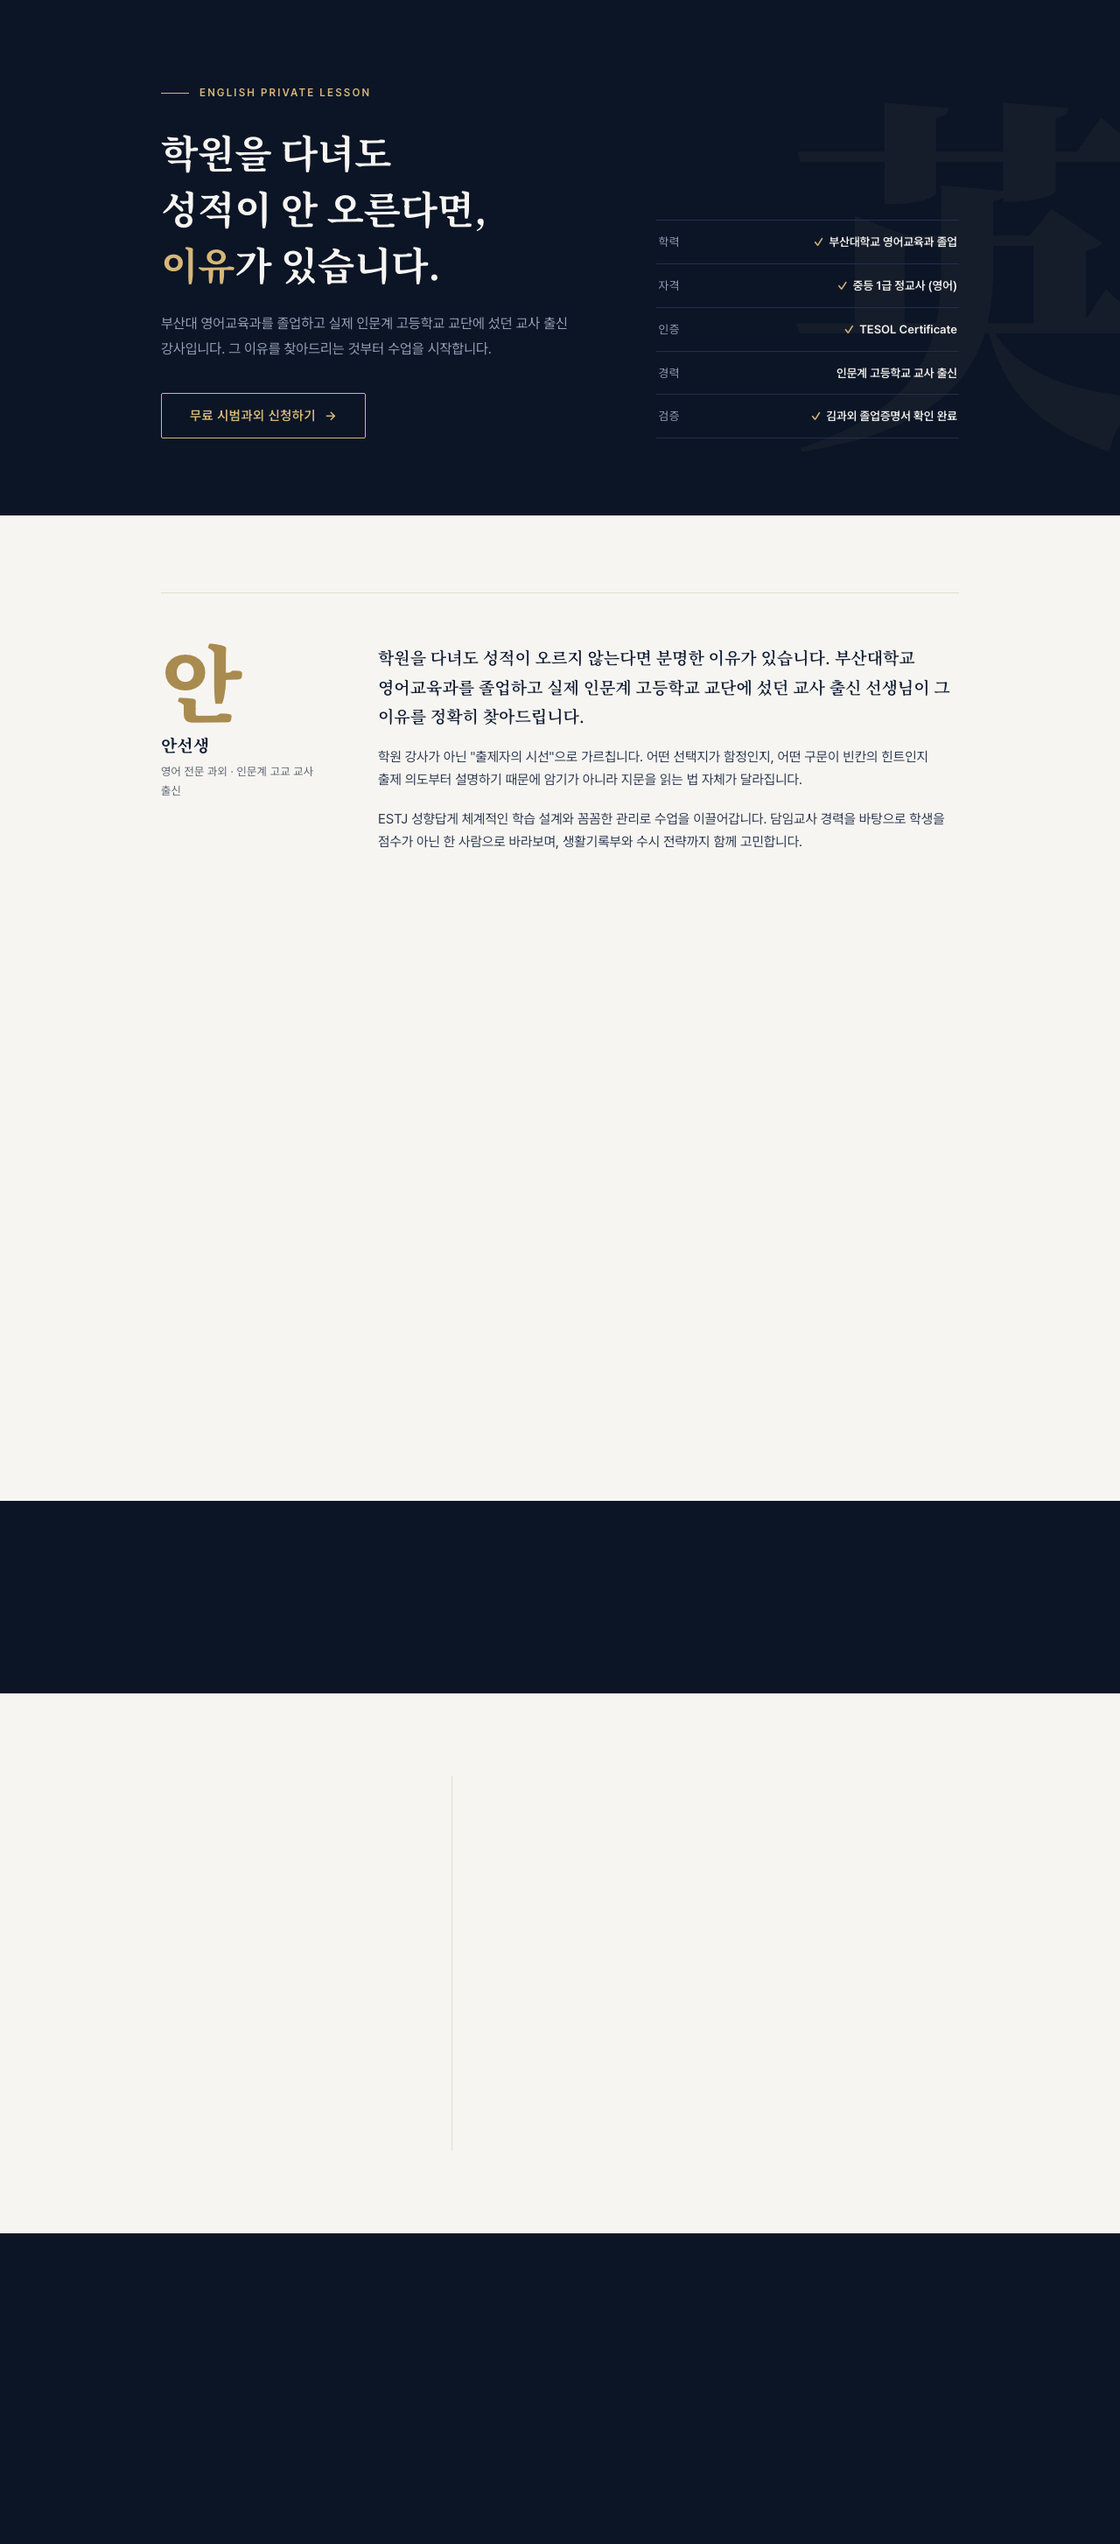
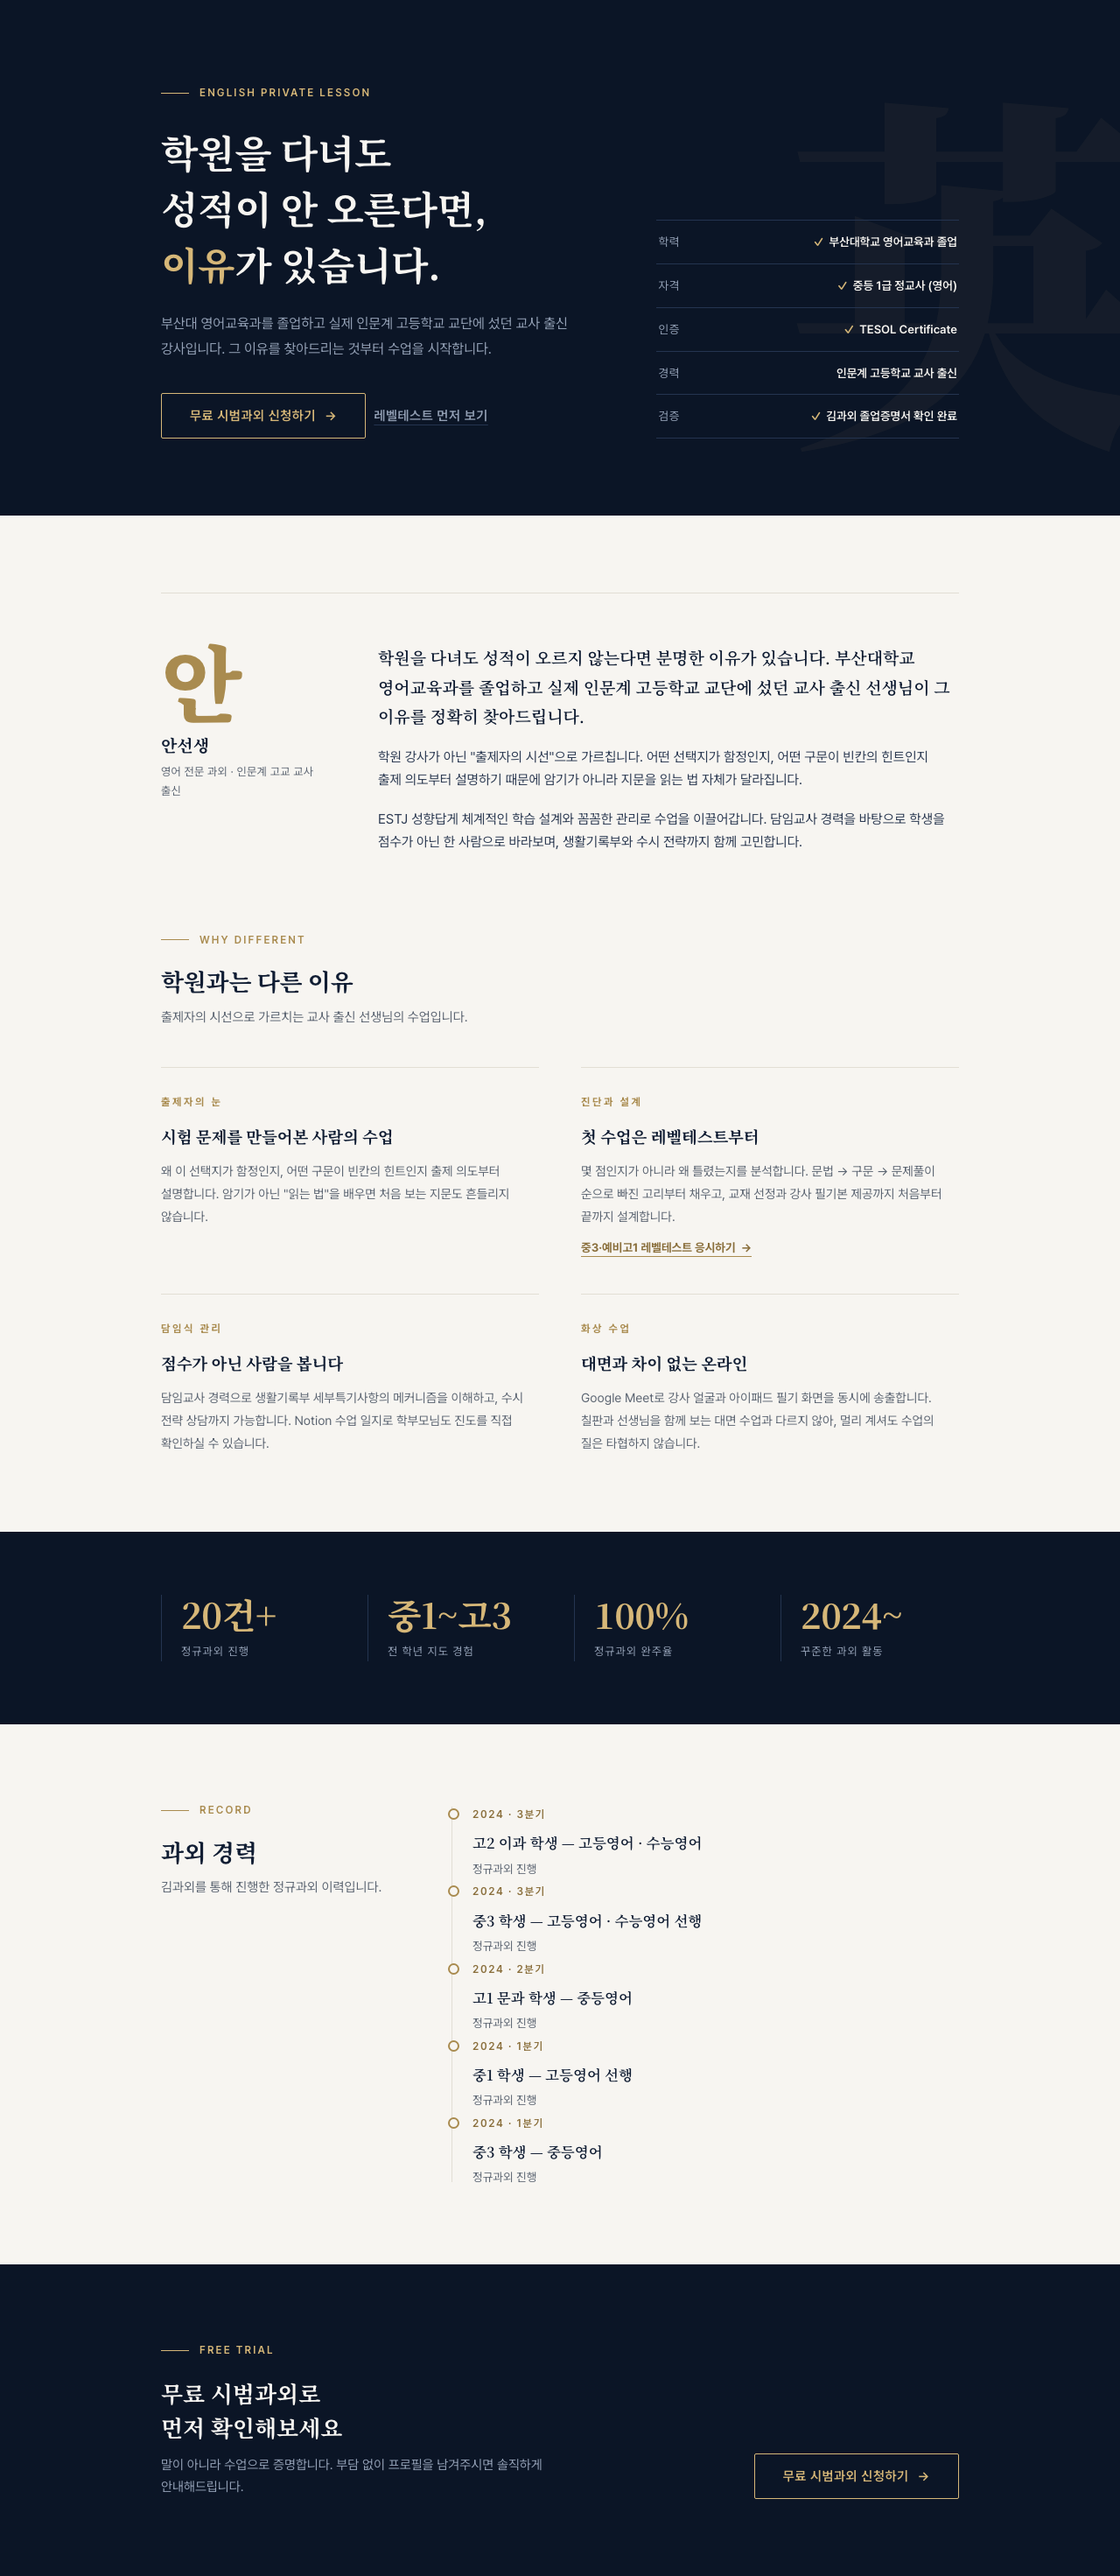
Rewrite README to cover the level test
레벨테스트가 추가되면서 README가 2단 구성(랜딩 + 프로필) 기준으로
낡아 있었다. 세 흐름을 모두 담고, 서술형 자동 채점 방식과 영역별
피드백 예시처럼 이 프로젝트의 핵심 설계를 실제로 보여주도록 재작성.

스크린샷도 레벨테스트 화면(안내 · 독해 응시 · 결과)을 추가해 다시 촬영.
스크롤 리빌이 fullPage 캡처에서 트리거되지 않아 결과 페이지의 영역별
분석이 비어 보이던 문제를 촬영 전 스크롤로 해결.

diff --git a/README.md b/README.md
@@ -2,117 +2,252 @@
 
 # 안선생 영어과외
 
-**"학원을 다녀도 성적이 안 오른다면, 이유가 있습니다."**
+### <em>"학원을 다녀도 성적이 안 오른다면, 이유가 있습니다."</em>
 
-교사 출신 영어 과외 선생님의 소개 랜딩 페이지 &middot; 학년별 분기형 학생 프로필 입력 폼
+교사 출신 영어 과외 선생님의 브랜드 랜딩 페이지 &middot; 학년별 분기형 학생 프로필 폼 &middot; 20문항 자동 채점 레벨테스트
 
-[**🔗 Live Demo**](https://maybeags.github.io/tutor-profile/) &nbsp;·&nbsp;
-[Report Bug](https://github.com/maybeags/tutor-profile/issues) &nbsp;·&nbsp;
-[Request Feature](https://github.com/maybeags/tutor-profile/issues)
+<br />
 
-![React](https://img.shields.io/badge/React-19-149ECA?logo=react&logoColor=white)
-![Vite](https://img.shields.io/badge/Vite-8-646CFF?logo=vite&logoColor=white)
-![React Router](https://img.shields.io/badge/React_Router-7-CA4245?logo=reactrouter&logoColor=white)
-![Deploy](https://img.shields.io/github/actions/workflow/status/maybeags/tutor-profile/deploy.yml?branch=main&label=deploy)
-![License](https://img.shields.io/badge/license-MIT-lightgrey)
+[**🔗 Live Demo**](https://maybeags.github.io/tutor-profile/) &nbsp;&middot;&nbsp;
+[레벨테스트 바로 응시](https://maybeags.github.io/tutor-profile/#/test) &nbsp;&middot;&nbsp;
+[Issues](https://github.com/maybeags/tutor-profile/issues)
+
+<br />
+
+![React](https://img.shields.io/badge/React-19-149ECA?style=flat-square&logo=react&logoColor=white)
+![Vite](https://img.shields.io/badge/Vite-8-646CFF?style=flat-square&logo=vite&logoColor=white)
+![React Router](https://img.shields.io/badge/React_Router-7-CA4245?style=flat-square&logo=reactrouter&logoColor=white)
+![Deploy](https://img.shields.io/github/actions/workflow/status/maybeags/tutor-profile/deploy.yml?branch=main&style=flat-square&label=deploy)
+![No Backend](https://img.shields.io/badge/backend-none-lightgrey?style=flat-square)
+![License](https://img.shields.io/badge/license-MIT-lightgrey?style=flat-square)
+
+<br />
+
+<img src="docs/screenshot-hero.png" alt="랜딩 페이지 히어로 섹션" width="100%" />
 
 </div>
 
 <br />
 
-<div align="center">
-  <img src="docs/screenshot-hero.png" alt="데스크톱 히어로 섹션" width="100%" />
-</div>
+## 프로젝트 소개
+
+과외 선생님이 신규 학생을 받는 과정 전체를 하나의 정적 사이트로 만든 프로젝트입니다. **서버도 데이터베이스도 없이** 세 가지 흐름이 돌아갑니다.
+
+```
+소개 랜딩  ─┬─▶  학생 프로필 입력  ──▶  요약 · 클립보드 복사  ──┐
+            │      (중등 / 고등 분기)                              ├──▶  구글 시트
+            └─▶  레벨테스트 20문항  ──▶  자동 채점 · 영역별 피드백 ─┘
+```
+
+디자인은 **"프리미엄 입시학원 브랜드"** 컨셉으로, 딥 네이비 + 브라스 골드 팔레트와 명조 세리프 타이포그래피를 씁니다. 그라데이션 히어로·이모지 섹션 마커·전면 센터 정렬 같은 흔한 템플릿 문법을 의도적으로 피하고, 헤어라인과 여백으로 구획하는 에디토리얼 레이아웃을 택했습니다.
 
 <br />
 
-## About
-
-과외 선생님이 신규 학생을 받을 때 쓰는 2단 구성의 웹 서비스입니다.
-
-1. **소개 페이지** — 강사의 이력과 강점을 에디토리얼 톤으로 소개하는 랜딩 페이지
-2. **프로필 입력 페이지** — 중학생 / 고등학생 분기에 따라 서로 다른 질문으로 학생 정보를 수집하는 폼
-
-디자인은 "프리미엄 입시학원 브랜드"를 컨셉으로, 딥 네이비 + 브라스 골드 팔레트와 세리프 타이포그래피, 스크롤 리빌·카운트업 모션을 적용해 전형적인 AI 생성 템플릿 느낌을 피하는 데 초점을 맞췄습니다.
-
-<br />
-
-## Features
-
-| | |
-|---|---|
-| 🎯 **에디토리얼 랜딩** | 좌측 정렬 히어로, 헤어라인 기반 섹션 구분, 골드 워터마크 등 절제된 브랜드 아이덴티티 |
-| ✨ **스크롤 모션** | `IntersectionObserver` 기반 리빌 애니메이션과 통계 카운트업 (`prefers-reduced-motion` 대응) |
-| 🧭 **분기형 온보딩** | 중학생 / 고등학생 선택에 따라 완전히 다른 입력 필드 세트로 안내 |
-| 📋 **경량 제출** | 입력 내용을 요약 텍스트로 만들어 클립보드 복사 (카카오톡 등으로 직접 전달) |
-| 📊 **구글 시트 로깅 (선택)** | 자체 백엔드 없이 Apps Script Web App으로 제출 내역을 구글 시트에 자동 기록 ([설정 가이드](docs/google-sheet-setup.md)) |
-| 📱 **반응형** | 375px 모바일부터 데스크톱까지 레이아웃 붕괴 없이 대응 |
-| 🚀 **자동 배포** | `main` 브랜치 push 시 GitHub Actions가 빌드해 GitHub Pages에 자동 배포 |
-
-<br />
-
-## Preview
+## 주요 기능
 
 <table>
-  <tr>
-    <td width="70%"><img src="docs/screenshot-full.png" alt="전체 페이지" /></td>
-    <td width="30%"><img src="docs/screenshot-mobile.png" alt="모바일 뷰" /></td>
-  </tr>
-  <tr>
-    <td align="center"><sub>Desktop — Full Page</sub></td>
-    <td align="center"><sub>Mobile — 390px</sub></td>
-  </tr>
+<tr>
+<td width="33%" valign="top">
+
+### 📐 에디토리얼 랜딩
+
+좌측 정렬 비대칭 히어로, 헤어라인 기반 섹션 구분, 골드 워터마크. 경력은 실제 시간 순서가 있는 데이터라 타임라인으로 표현했습니다.
+
+</td>
+<td width="33%" valign="top">
+
+### 🧭 분기형 온보딩
+
+중학생 / 고등학생 선택에 따라 완전히 다른 질문 세트로 안내합니다. 고등은 계열 · 내신 등급 · 모의고사 등급 · 준비 전형까지 수집합니다.
+
+</td>
+<td width="33%" valign="top">
+
+### 📝 자동 채점 레벨테스트
+
+중3 · 예비고1 대상 20문항. **객관식은 물론 서술형까지** 클라이언트에서 자동 채점하고 영역별 강약점을 진단합니다.
+
+</td>
+</tr>
+<tr>
+<td valign="top">
+
+### ✨ 스크롤 모션
+
+`IntersectionObserver` 리빌 애니메이션과 통계 카운트업. `prefers-reduced-motion`을 존중해 모두 비활성화됩니다.
+
+</td>
+<td valign="top">
+
+### 📊 구글 시트 로깅
+
+자체 백엔드 없이 Apps Script Web App으로 프로필과 테스트 결과를 각각 다른 시트 탭에 자동 기록합니다.
+
+</td>
+<td valign="top">
+
+### 🚀 자동 배포
+
+`main` push → GitHub Actions 빌드 → GitHub Pages. `HashRouter`를 써서 정적 호스팅에서도 딥링크가 깨지지 않습니다.
+
+</td>
+</tr>
 </table>
 
 <br />
 
-## Tech Stack
+## 레벨테스트
 
-- **Framework**: React 19 + Vite
-- **Routing**: React Router (`HashRouter`, GitHub Pages 정적 호스팅 호환)
-- **Styling**: Plain CSS, 디자인 토큰 기반 (`src/styles/index.css`) — 별도 UI 라이브러리 없이 직접 설계
-- **Fonts**: Noto Serif KR(디스플레이) + Pretendard(본문)
-- **Deploy**: GitHub Actions → GitHub Pages
+`/test`에서 이름만 남기면 바로 응시할 수 있고, **문법 → 어휘 → 독해 → 서술형** 네 단계로 진행됩니다.
+
+| 영역 | 문항 | 점검 항목 |
+|:---|:---:|:---|
+| **문법** | 6 | 관계대명사 · 현재완료 · 분사구문 · 가정법 · 동명사/부정사 · 수일치 |
+| **어휘** | 5 | 문맥 추론 · 반의어 · 다의어 · 구동사 · 파생어 |
+| **독해** | 5 | 주제 · 세부 내용 · 빈칸 추론 · 연결어 · 필자의 주장 <sub>(지문 2편)</sub> |
+| **서술형** | 4 | 배열 영작 · 어형 변화 · 문장 전환 · 조건 영작 |
+
+출제 기준은 **중3에서 고1 내신·모의고사로 넘어갈 때 실제로 무너지는 지점**입니다. 단순 암기 확인이 아니라, 틀렸을 때 *무엇을 안 배웠는지*가 드러나도록 문항마다 `topic` 태그를 답니다.
+
+<div align="center">
+<img src="docs/screenshot-test-quiz.png" alt="독해 영역 — 지문과 문항" width="88%" />
+<br /><sub>독해 단계 — 지문 2편과 5문항</sub>
+</div>
 
 <br />
 
-## Project Structure
+### 서술형을 자동 채점하는 법
+
+백엔드가 없으니 서술형도 브라우저에서 채점해야 합니다. 그래서 **정답이 하나로만 결정되도록** 조건을 설계했습니다.
+
+- 주어진 단어를 **모두 한 번씩** 사용하는 배열 영작
+- 단어 수 지정 — *"총 9단어로 쓸 것"*
+- 필수 표현 지정 — *"`too`를 반드시 사용할 것"*
+
+채점 시 대소문자 · 문장부호 · 앞뒤/연속 공백을 정규화하므로, 아래 입력은 모두 정답 처리됩니다.
+
+```
+"  He is the KINDEST person I have ever met.  "   ✅
+"he is the kindest person i have ever met"        ✅
+```
+
+<br />
+
+### 점수가 아니라 진단을 줍니다
+
+정답률로 등급(우수 / 보통 / 보완 필요)을 매기는 데서 그치지 않고, **틀린 문항의 `topic`을 모아** 문장을 만듭니다.
+
+> **어휘 3/5 — 보통**
+> 아는 단어는 많지만, 문맥에 따라 뜻이 달라지는 지점에서 실점합니다. 특히 **다의어, 구동사**에서 실점했습니다.
+
+> **서술형 2/4 — 보완 필요**
+> 눈으로 아는 것과 직접 쓰는 것의 격차가 큽니다. 내신 서술형에서 실점이 예상됩니다. 특히 **가정법, too ~ to 구문**에서 실점했습니다. (미응답 1문항 포함)
+
+미응답은 오답과 구분해 표시하고, 문항별 해설은 아코디언으로 펼쳐볼 수 있습니다.
+
+<div align="center">
+<img src="docs/screenshot-test-result.png" alt="레벨테스트 결과 — 영역별 분석과 문항별 해설" width="88%" />
+<br /><sub>결과 페이지 — 영역별 분석, 오답 해설 아코디언</sub>
+</div>
+
+<br />
+
+## 화면
+
+<table>
+<tr>
+<td width="34%" valign="top"><img src="docs/screenshot-test-intro.png" alt="레벨테스트 안내" /></td>
+<td width="46%" valign="top"><img src="docs/screenshot-full.png" alt="랜딩 페이지 전체" /></td>
+<td width="20%" valign="top"><img src="docs/screenshot-mobile.png" alt="모바일 뷰" /></td>
+</tr>
+<tr>
+<td align="center"><sub>레벨테스트 안내</sub></td>
+<td align="center"><sub>랜딩 — 전체</sub></td>
+<td align="center"><sub>모바일 390px</sub></td>
+</tr>
+</table>
+
+<br />
+
+## 기술 스택
+
+| | |
+|:---|:---|
+| **Framework** | React 19 + Vite |
+| **Routing** | React Router 7 (`HashRouter` — 정적 호스팅에서 딥링크 유지) |
+| **Styling** | Plain CSS + 디자인 토큰. UI 라이브러리 없이 직접 설계 |
+| **Fonts** | Noto Serif KR <sub>(디스플레이)</sub> + Pretendard <sub>(본문)</sub> |
+| **State** | `useState` + 라우터 `location.state`. 전역 상태 라이브러리 없음 |
+| **Backend** | 없음. 선택적으로 Google Apps Script Web App을 웹훅으로 사용 |
+| **CI/CD** | GitHub Actions → GitHub Pages |
+
+<br />
+
+## 구조
 
 ```
 src/
-├── components/       # StepIndicator, Reveal, CountUp, 폼 필드 컴포넌트
-├── data/             # tutorProfile.js — 소개 페이지 콘텐츠 (마케팅 카피, 경력 등)
+├── components/
+│   ├── StepIndicator.jsx      # 단계 표시 (steps props로 3·4단계 겸용)
+│   ├── Reveal.jsx             # IntersectionObserver 스크롤 리빌
+│   ├── CountUp.jsx            # 통계 숫자 카운트업
+│   ├── PassageBox.jsx         # 독해 지문 박스
+│   └── …                      # SharedFields, RadioPillGroup, CheckboxGroup
+├── data/
+│   ├── tutorProfile.js        # 랜딩 콘텐츠 (카피 · 경력 · 통계)
+│   └── levelTest.js           # 20문항 · 지문 · 정답 · topic · 해설
+├── lib/
+│   ├── gradeTest.js           # 채점 · 영역별 집계 · 피드백 생성
+│   ├── summary.js             # 프로필 요약 텍스트 조립
+│   └── submitToSheet.js       # 구글 시트 웹훅 (profile / levelTest 분기)
 ├── pages/
-│   ├── IntroPage.jsx           # 소개 랜딩 페이지
-│   ├── ProfileSelectPage.jsx   # 중/고등학생 분기 선택
+│   ├── IntroPage.jsx                    # 소개 랜딩
+│   ├── ProfileSelectPage.jsx            # 중 / 고 분기
 │   ├── MiddleSchoolFormPage.jsx
 │   ├── HighSchoolFormPage.jsx
-│   └── SummaryPage.jsx         # 입력 요약 + 클립보드 복사
-└── styles/
-    └── index.css      # 디자인 토큰 + 전체 스타일
+│   ├── SummaryPage.jsx                  # 요약 + 클립보드 복사
+│   ├── TestIntroPage.jsx                # 레벨테스트 안내
+│   ├── TestQuizPage.jsx                 # 영역별 4단계 응시
+│   └── TestResultPage.jsx               # 채점 결과 · 피드백
+└── styles/index.css           # 디자인 토큰 + 전체 스타일
 ```
+
+> 문항을 바꾸고 싶다면 [`src/data/levelTest.js`](src/data/levelTest.js) **하나만** 고치면 됩니다. 채점과 피드백이 `section` / `topic` 필드를 따라 자동으로 반영됩니다.
 
 <br />
 
-## Getting Started
+## 시작하기
 
 ```bash
 npm install
-npm run dev       # http://localhost:5173
+npm run dev          # http://localhost:5173
 ```
 
 ```bash
-npm run build      # dist/ 로 프로덕션 빌드
-npm run preview    # 빌드 결과 로컬 미리보기
+npm run build        # dist/ 로 프로덕션 빌드
+npm run preview      # 빌드 결과 로컬 확인
 ```
+
+구글 시트 연동은 선택입니다. 쓰려면 `.env`에 웹훅 URL을 넣으세요 — 없으면 시트 기록만 건너뛰고 나머지는 그대로 동작합니다.
+
+```bash
+cp .env.example .env
+# VITE_SHEET_WEBHOOK_URL=https://script.google.com/macros/s/.../exec
+```
+
+설정 방법은 [구글 시트 연동 가이드](docs/google-sheet-setup.md)에 단계별로 정리해 두었습니다.
 
 <br />
 
-## Deployment
+## 배포
 
-`main` 브랜치에 push되면 [`.github/workflows/deploy.yml`](.github/workflows/deploy.yml) 워크플로우가 자동으로 빌드 후 GitHub Pages에 배포합니다. 별도의 서버나 데이터베이스 없이 정적 파일만으로 동작하는 구조라 배포 파이프라인이 단순합니다.
+`main` 브랜치에 push하면 [`deploy.yml`](.github/workflows/deploy.yml)이 빌드 후 GitHub Pages에 배포합니다. 웹훅 URL은 저장소 시크릿 `SHEET_WEBHOOK_URL`에서 빌드 시 주입됩니다.
 
-> **참고**: 기본적으로 학생 프로필 입력 데이터는 서버에 저장되지 않습니다 — 제출 시 브라우저 메모리에서 요약 텍스트를 생성해 화면에 보여주고, 사용자가 직접 복사해 선생님께 전달하는 방식입니다. `VITE_SHEET_WEBHOOK_URL`을 설정하면 제출 내역이 구글 시트에도 함께 기록됩니다 (자체 백엔드 없이 Apps Script Web App을 통해 동작 — [설정 가이드](docs/google-sheet-setup.md)).
+> [!NOTE]
+> **데이터는 기본적으로 어디에도 저장되지 않습니다.** 프로필과 테스트 응답은 브라우저 메모리에서만 처리되어 화면에 표시되고, 새로고침하면 사라집니다. `VITE_SHEET_WEBHOOK_URL`을 설정한 경우에만 구글 시트에 추가로 기록됩니다.
+
+> [!WARNING]
+> 웹훅 URL은 정적 사이트 특성상 빌드된 JS 번들에 포함되어 **공개적으로 노출됩니다.** URL을 아는 사람은 폼을 거치지 않고도 시트에 데이터를 넣을 수 있습니다. 공개 배포 시에는 Apps Script 쪽에 토큰 검증을 추가하는 것을 권장합니다.
 
 <br />
 
